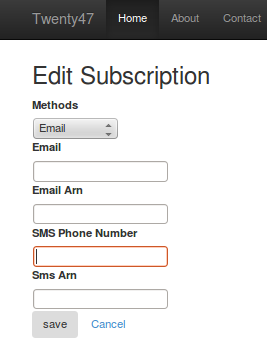
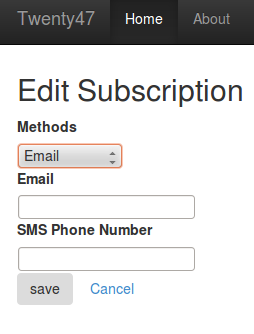
Done with doc on dispatch_create

diff --git a/twenty47/subscriber.py b/twenty47/subscriber.py
@@ -48,6 +48,8 @@ class Detail(MethodView):
         #'user': {'default': current_user, 'widget': widgets.HiddenInput()},
         del form_cls.enabled
         del form_cls.status
+        del form_cls.email_arn
+        del form_cls.sms_arn
 
         user = User.objects.get_or_404(id=current_user.id)
         if not user.subscription:

diff --git a/docs/for_users.rst b/docs/for_users.rst
@@ -1,5 +1,6 @@
-User Documentation for Twenty47!
-====================================
+################################
+User Documentation for Twenty47
+################################
 
 Contents:
 
@@ -12,22 +13,26 @@ Twenty47 allows simple input of basic dispatch information. This data
 is then pushed to email or SMS subscribers. For most users, there are
 2 forms available.
 
+
 The Dispatch Create form
+------------------------
+The use this should be self-explanatory. Upon submission,
+Dispatch Create sends a notification to all subscribers.
 
 .. image:: _static/dispatch_create.png
    :alt: Create a new dispatch form
 
 The Subscriber form
+-------------------
+This form is also self-explanatory. What happens after pressing "Save" 
+does, however; require more explanation
 
 .. image:: _static/subscriber.png
    :alt: Manage your subscription form
    
-The use of both these forms should be self-explanatory. Upon submission,
-Dispatch Create sends a notification to all subscribers. The effects of 
-Subscriber form require more explanation.
 
 Effects of Subscriber form
---------------------------
+^^^^^^^^^^^^^^^^^^^^^^^^^^
 All subscribers must be approved before they are allowed to receive
 notifications.
 
